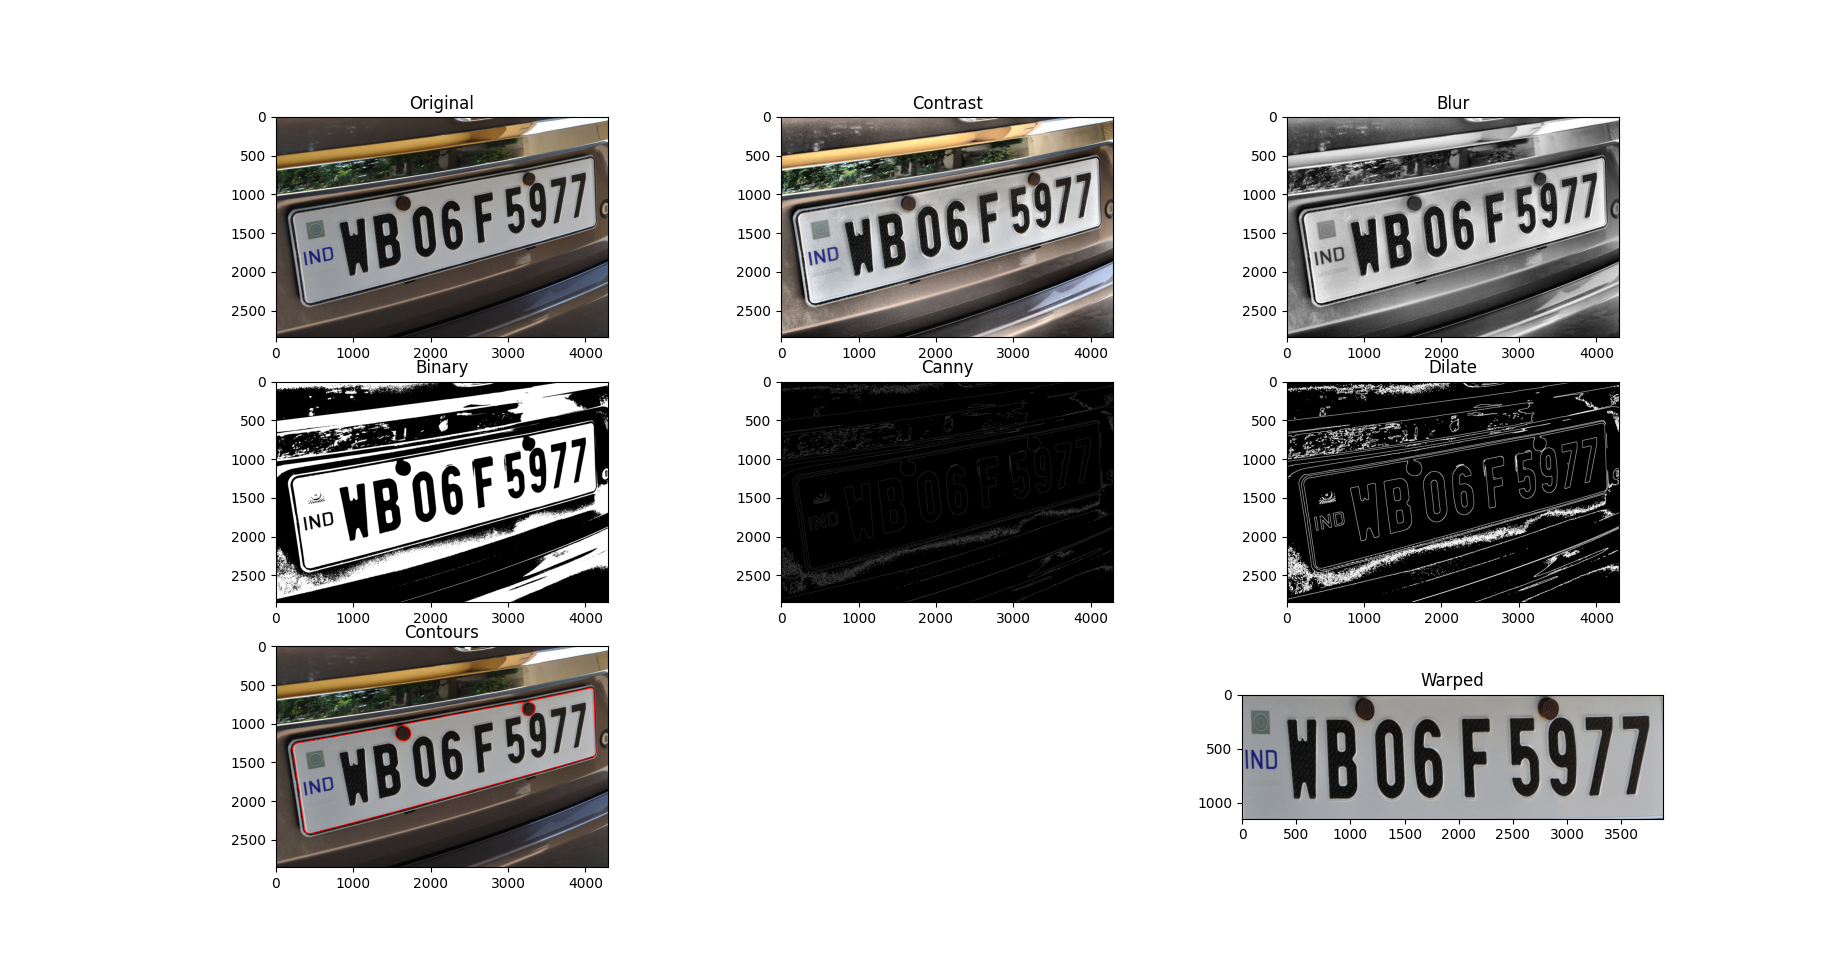
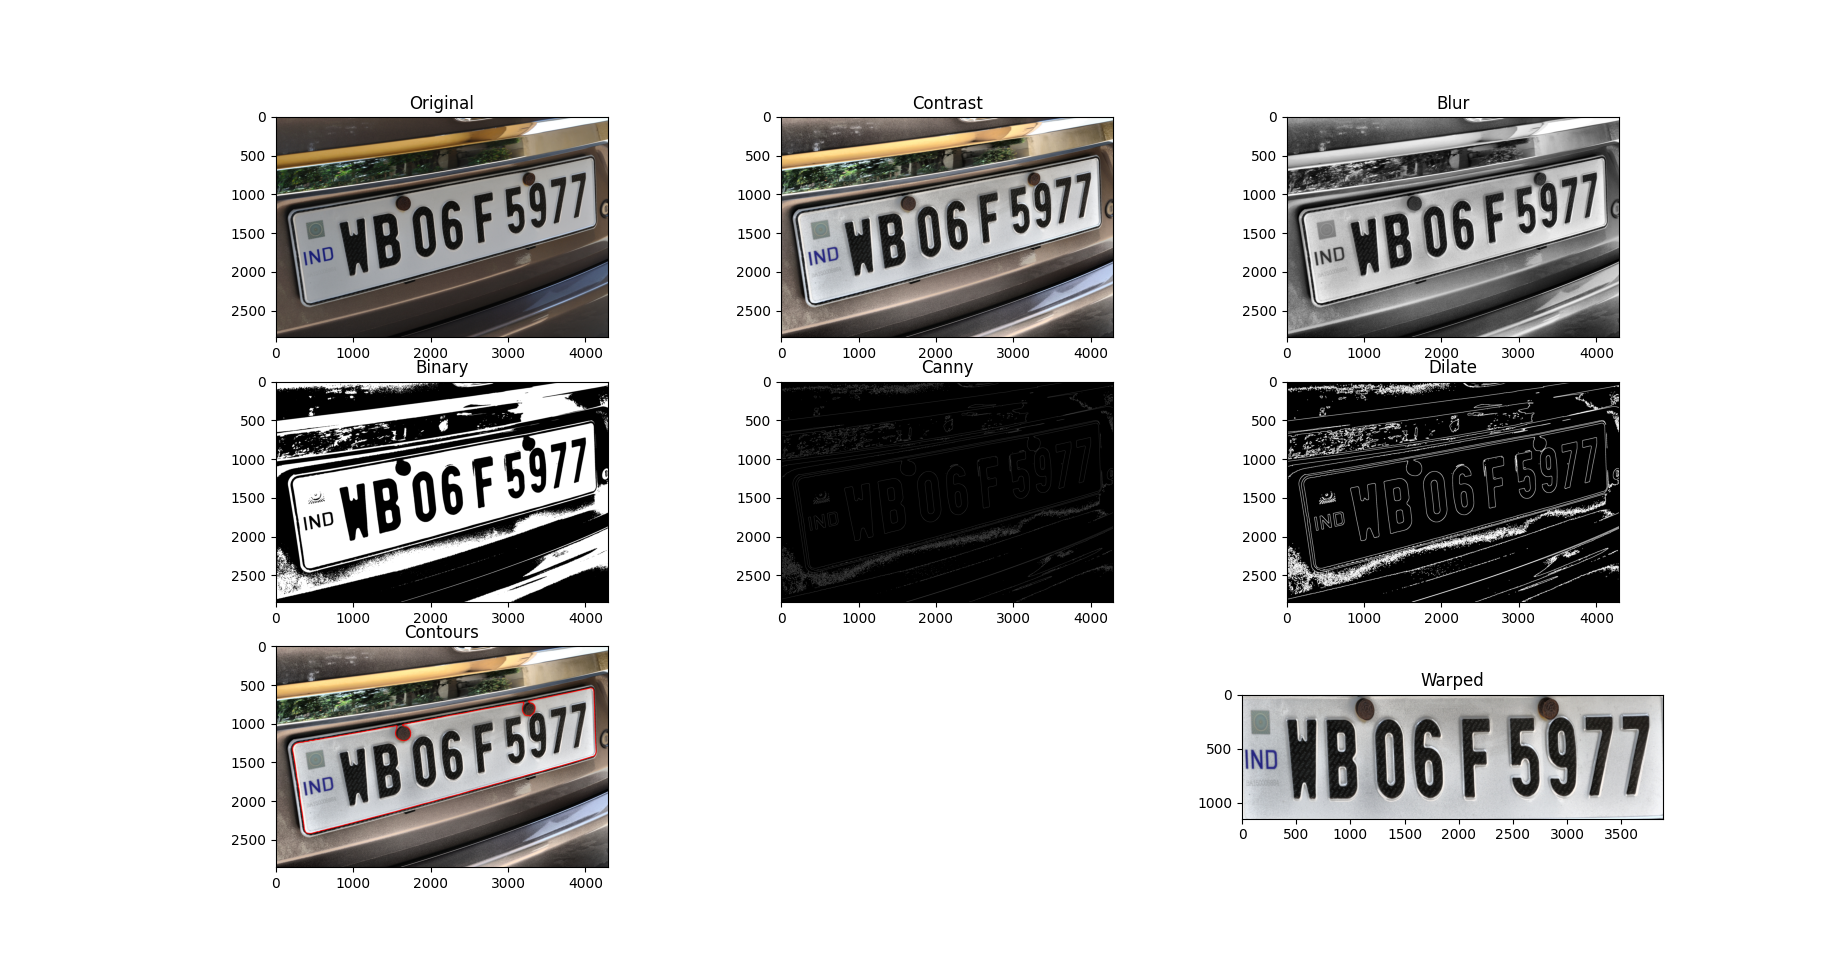
used contrasted image for final warping

Changed region(s): [[0.1234, 0.6468, 0.3393, 0.8932], [0.6477, 0.7084, 0.9253, 0.8624]]

diff --git a/main.py b/main.py
@@ -44,7 +44,7 @@ class PreprocessVehicleLicensePlate:
         # imgThres =  cv2.morphologyEx(imgDial, cv2.MORPH_OPEN, self.kernel)
         
         #9: get contours and do perspective transform
-        imgContour, warped = self.getWarpedImage(imgDial, image)
+        imgContour, warped = self.getWarpedImage(imgDial, imgHighContrast)
 
         return imgHighContrast, imgBlur, imgBinary, imgCanny, imgDial, imgContour, warped
 
